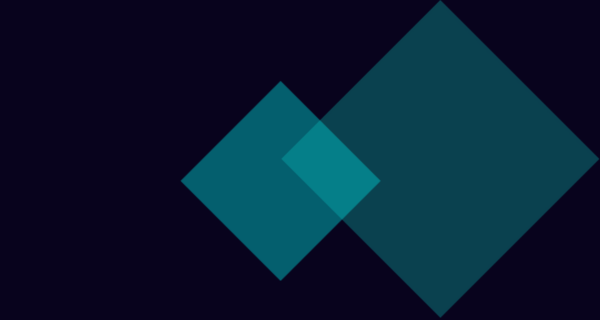
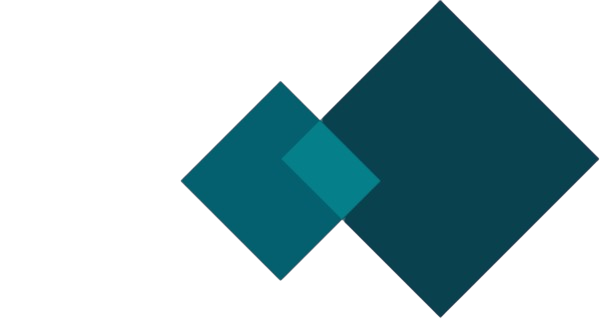
atualizacao cores portfolio

diff --git a/styles/style.css b/styles/style.css
@@ -2,13 +2,12 @@
 @import url('https://fonts.googleapis.com/css2?family=Doppio+One&display=swap');
 
 :root {
-    --roxo: #08031D;
-    --azul-escuro: #004F71;
-    --azul-medio: #0D8485;
-    --azul-claro: #00C6CA;
-    --azul-claro2: #0CC7C9;
-    --azul-maisescuro: #270AD6;
-    --branco: #FFFFFF;
+    --padrao: #13131F;
+    --cor1: #8257E6;
+    --cor2: #004F71;
+    --cor3: #FFFFFF;
+    --cor4: #bdbdbd;
+    --secundaria: #FFFFFF;
 }
 
 html, body {
@@ -16,8 +15,8 @@ html, body {
 }
 
 body {
-    background-color: var(--roxo);
-    color: var(--branco);
+    background-color: var(--padrao);
+    color: var(--secundaria);
     font-family: 'Dosis', sans-serif;
     font-size: 16px;
     margin-top: 20%; 
@@ -31,10 +30,10 @@ body {
     position: fixed;
     top: 0;
     left: 0;
-    background-color: var(--roxo);
+    background-color: var(--padrao);
     width: 100%;
     z-index: 1000;
-    border-bottom: 1px solid var(--azul-medio);
+    border-bottom: 1px solid var(--cor1);
     
 }
 
@@ -70,7 +69,7 @@ body {
     height: 75%;
     padding: 3%;
     background-color: var(--azul-escuro);
-    border: 1px solid var(--azul-claro);
+    border: 1px solid var(--cor3);
     border-radius: 5px;
     display: flex;
     flex-direction: column;
@@ -86,7 +85,7 @@ body {
 .cabecalho__nav-menu-linha {
     width: 30%;
     height: 10%;
-    background-color: var(--azul-claro);
+    background-color: var(--cor3);
 }
 
 /* Div icone X */
@@ -95,7 +94,7 @@ body {
     height: 75%;
     padding: 3%;
     background-color: var(--azul-escuro);
-    border: 1px solid var(--azul-claro);
+    border: 1px solid var(--cor3);
     border-radius: 5px;
     display: flex;
     position: relative;
@@ -136,10 +135,10 @@ body {
     z-index: -1;
     text-align: center;
     display: none;
-    border: 1px solid var(--azul-claro);
+    border: 1px solid var(--cor3);
     line-height: 2em;
     font-size: 1.4rem;
-    color: var(--azul-claro);
+    color: var(--cor3);
     text-shadow: 2px 2px 3px var(--roxo);
     cursor: pointer;
 }
@@ -147,7 +146,7 @@ body {
 /*tag a do menu*/
 .cabecalho__nav-menu-acesso-lista-itens a{
     text-decoration: none;
-    color: var(--azul-claro);
+    color: var(--cor3);
 }
 
 /* Linhas ícone X */
@@ -155,7 +154,7 @@ body {
 #cabecalho__nav-menu-icone-x02 {
     width: 30%;
     height: 10%;
-    background-color: var(--azul-claro);
+    background-color: var(--cor3);
     position: absolute;
     top: 50%;
     left: 50%;
@@ -176,7 +175,7 @@ body {
 /*Título portfolio*/
 .cabecalho__nav-portfolio-titulo {
     font-size: 1.5rem;
-    color: var(--azul-medio);
+    color: var(--cor1);
 
 }
 
@@ -188,14 +187,14 @@ body {
     height: 100%;
     align-items: center;
     justify-content: space-between;
-    color: var(--azul-medio);
+    color: var(--cor1);
     margin: 0 5% 0 0;
     cursor: pointer;
 }
 
 /*Cor do ícone idioma*/ 
 .cabecalho__nav-idioma-img path {
-    fill: var(--azul-medio);
+    fill: var(--cor1);
 }
 
 /*Texto do idioma*/
@@ -239,33 +238,33 @@ body {
 
 /*Primeiro parágrafo apresentação*/
 #principal__portfolio-apresentacao-texto-01 {
-    color: var(--azul-claro2);
+    color: var(--cor1);
     line-height: 1.5em;
 }
 
 /*Segundo parágrafo apresentação*/
 #principal__portfolio-apresentacao-texto-02 {
-    color: var(--azul-maisescuro);
+    color: var(--cor4);
     font-size: 0.9rem;
 }
 
 /*Texto download currículo*/
 #principal__portfolio-apresentacao-cv-texto-01 {
-    color: var(--azul-claro);
+    color: var(--cor3);
     text-decoration: none;
     font-size: 0.75rem;
     padding: 2% 5% 2% 5%;
-    border: 1px solid var(--azul-medio);
+    border: 1px solid var(--cor1);
 }
 
 /*PRINCIPAL SOBRE*/
 /*Título das seções*/
 .portfolio__titulo {
     font-size: 1.38rem;
-    color: var(--azul-claro);
+    color: var(--cor3);
     text-align: center;
     padding-bottom: 2%;
-    text-shadow: 1px 1px 2px var(--azul-maisescuro);
+    text-shadow: 1px 1px 2px var(--cor4);
 }
 
 .principal__sobre {
@@ -334,11 +333,11 @@ body {
 }
 /*Nome tecnologias*/
 .principal__habilidades__container-skill-texto {
-    color: var(--azul-claro2);
+    color: var(--cor3);
     font-family: 'Doppio One', sans-serif;
     font-size: 0.85rem;
     background-color: #08031D;
-    border: 1px solid var(--branco);
+    border: 1px solid var(--secundaria);
     border-radius: 5%;
     padding: 5%;
 }
@@ -357,13 +356,13 @@ body {
 
 /* Título do projeto */
 .principal__projetos__container-itens-titulo {
-    background-color: var(--azul-medio);
+    background-color: var(--cor1);
     padding: 2%;
 }
 
 /* Botão veja mais */
 .principal__projetos__container-itens-mais {
-    background-color: var(--azul-medio);
+    background-color: var(--cor1);
     padding: 1%;
 }
 
@@ -419,7 +418,7 @@ body {
 .principal__projetos__container-itens-back {
     display: none;
     background-color: var(--azul-escuro);
-    border: 1px solid var(--azul-claro);
+    border: 1px solid var(--cor3);
     padding: 5%;
     line-height: 2em;
 }
@@ -445,7 +444,7 @@ body {
 .principal___projetos__container-itens-back-botoes-container {
     width: 40%;
     padding: 2% 2% 2% 2%;
-    background-color: var(--azul-medio);
+    background-color: var(--cor1);
 }
 
 /*Imagem dos links*/
@@ -460,11 +459,11 @@ body {
     display: flex;
     flex-direction: column;
     align-items: center;
-    color: var(--branco);
+    color: var(--secundaria);
 }
 
 .principal__projetos__container-links:hover {
-    color: var(--azul-maisescuro);
+    color: var(--cor4);
 }
 
 /*RODAPÉ*/
@@ -494,10 +493,10 @@ body {
 /*Links contatos*/
 .rodape__contatos__links {
     text-decoration: none;
-    color: var(--branco);
+    color: var(--secundaria);
 }
 
 .rodape__contatos__links:visited {
-    color: var(--branco);
+    color: var(--secundaria);
     text-decoration: none;
 }

diff --git a/styles/responsive.css b/styles/responsive.css
@@ -46,7 +46,6 @@
         flex-direction: row;
         position: static;
         width: 100%;
-        color: var(--azul-claro);
         background-color: transparent;
         border: none;
     }
